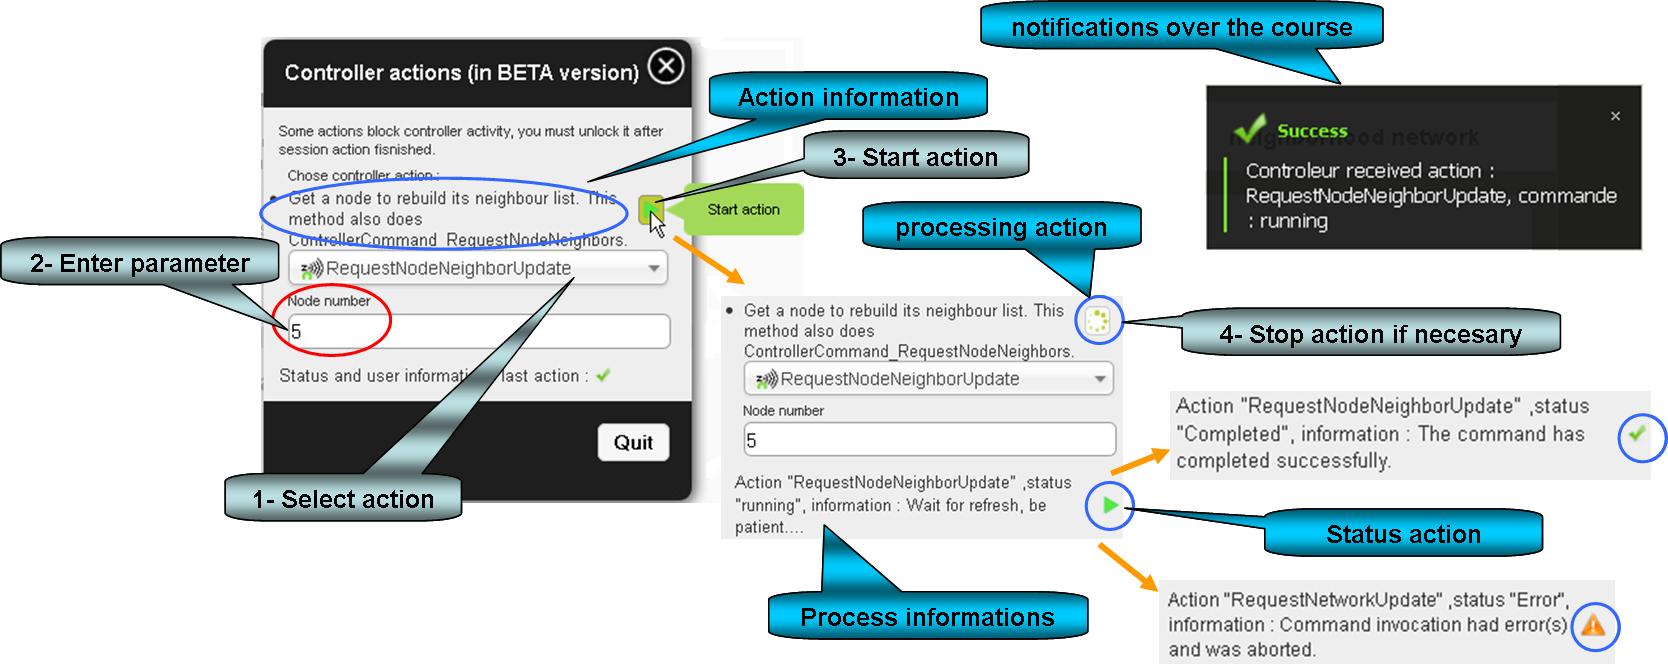
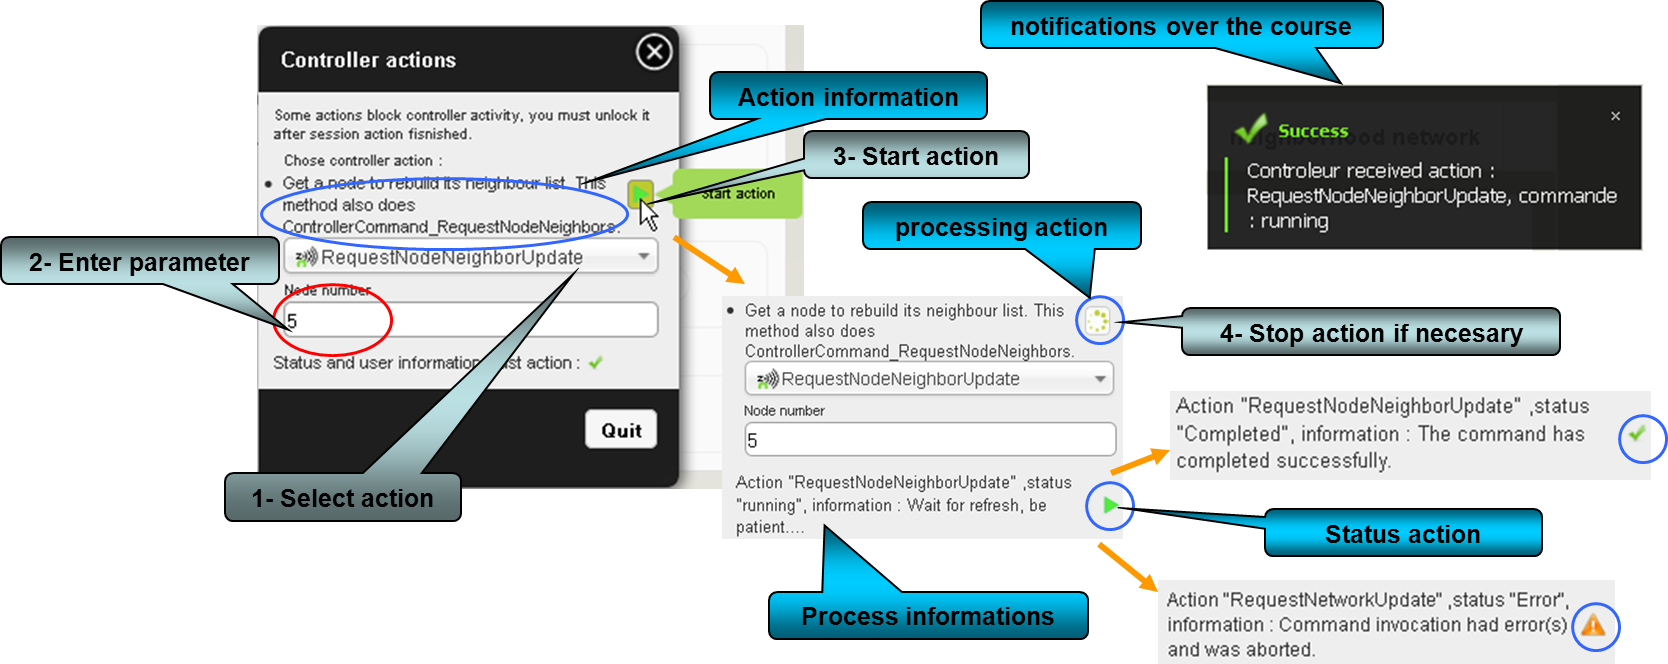
ozwave:Add start/stop driver function.. ., see doc

diff --git a/src/domogik_packages/xpl/lib/ozwave.py b/src/domogik_packages/xpl/lib/ozwave.py
@@ -83,7 +83,7 @@ class OZWavemanager(threading.Thread):
         self._stop = stop
         self._homeId = 0
         self._activeNodeId = None # node actif courant, pour utilisation dans les fonctions du manager
-        self._ctrlnodeId = -1
+        self._ctrlnodeId = None
         self._controller = None
         self._timeStarted = 0
         self._nodes = dict()
@@ -153,10 +153,7 @@ class OZWavemanager(threading.Thread):
         self._log.info(self.pyOZWLibVersion + " -- plugin version :" + OZWPLuginVers)
         print 'user config :',  self._userPath,  " Logging openzwave : ",  opts
         print self.pyOZWLibVersion + " -- plugin version :" + OZWPLuginVers
-   #     thWSUI = threading.Thread(None, self.runServerUI, "serv_ctrl_msg_to_ui", (), {} )
-   #     thWSUI.start()
-   #     from ozwuiserver import BroadcastServer 
-        self.serverUI =  BroadcastServer(self._wsPort,  self.cb_ServerWS,  self._log)
+        self.serverUI =  BroadcastServer(self._wsPort,  self.cb_ServerWS,  self._log) # demarre le websocket server
         self._cb_send_xPL({'type':'xpl-trig', 'schema':'ozwctrl.basic',
                                     'data': {'device': self._getCtrlDeviceName(),  
                                             'type':'plugin-state', 
@@ -183,35 +180,36 @@ class OZWavemanager(threading.Thread):
     def openDevice(self, device):
         """Ajoute un controleur au manager (en developpement 1 seul controleur actuellement)"""
         # TODO: Gérer une liste de controleurs
-        if self._device != None and self._device != device :
+        if self._device != None and self._device != device and self.ready :
             self._log.info("Remove driver from openzwave : %s",  self._device)
             self._manager.removeDriver(self._device)
         self._device = device
         self._log.info("adding driver to openzwave : %s",  self._device)
         self._manager.addDriver(self._device)  # ajout d'un driver dans le manager
         
+    def closeDevice(self, device):
+        """ferme un controleur du manager (en developpement 1 seul controleur actuellement)"""
+        if self._device == device and self._ctrlnodeId :
+            print("Remove driver from openzwave : %s" %self._device)
+            self._log.info("Remove driver from openzwave : %s",  self._device)
+            self._manager.removeDriver(self._device)
+            self._ready = False
+            self._ctrlnodeId = None
+            self.serverUI.broadcastMessage({'node': 'controller', 'type': 'driver-remove', 'usermsg' : 'Driver removed.', 'data': False})
+            self._controller = None
+        else:
+            print('No controller to close')
+            
     def stop(self):
         """ Stop class OZWManager."""
         print("Stopping plugin, Remove driver from openzwave : %s" %self._device)
         self._log.info("Stopping plugin, Remove driver from openzwave : %s",  self._device)
         sleep(1)
-        self._manager.removeDriver(self.device)
+        self._manager.removeDriver(self._device)
+        self._device = None
         self._ready = False
-        self._controller.reportChangeToUI({'node': 'controller', 'type': 'driver-ready', 'usermsg' : 'Plugin stopped and driver removed.', 'data': False})
+        self.serverUI.broadcastMessage({'node': 'controller', 'type': 'driver-remove', 'usermsg' : 'Plugin stopped and driver removed.', 'data': False})
         self.serverUI.close()
-        
-    def runServerUI(self):
-        from ozwuiserver import BroadcastServer
-        try:
-            self.serverUI =  BroadcastServer(5570,  self._log);
-            while not self._stop.isSet():
-                print 'Handle Process msg to UI send to UI'
-                time.sleep(1)  # ne pas saturer le proc
-        except OZwaveManagerException :
-            self._log.error("Error server Msg To UI is stopped")
-            print ("Error server Msg To UI is stopped")
-            return
-        print ("Stop plugin server Msg To UI")
     
     def GetPluginInfo(self):
         retval={"hostport": self._wsPort,  "ctrlready": self._ready}
@@ -363,6 +361,7 @@ class OZWavemanager(threading.Thread):
         self._log.info("Device %s ready. homeId is 0x%0.8x, controller node id is %d, using %s library version %s", self._device,  self._homeId, self._activeNodeId, self._libraryTypeName, self._libraryVersion)
         self._log.info('OpenZWave Initialization Begins.')
         self._log.info('The initialization process could take several minutes.  Please be patient.')
+        self.serverUI.broadcastMessage({'node': 'controller', 'type': 'driver-ready', 'usermsg' : 'Driver is ready.', 'data': True})
         print ('controleur prêt' )
 
     def _handleNodeLinked(self, args):
@@ -482,7 +481,6 @@ class OZWavemanager(threading.Thread):
                         print 'Node %d is affected as primary controller' %(nodeId)
                         self._log.info("Node %d is affected as primary controller)", nodeId)
                         self._controller = retval
-                        self._controller.reportChangeToUI({'node': 'controller', 'type': 'driver-ready', 'usermsg' : 'Driver is ready.', 'data': True})
                         self._controller.reportChangeToUI({'node': 'controller', 'type': 'init-process', 'usermsg' : 'Zwave network initialization process could take several minutes. ' +
                                                     ' Please be patient...', 'data': NodeStatusNW[3]})
                     else :
@@ -510,7 +508,9 @@ class OZWavemanager(threading.Thread):
         node = self._getNode(args['homeId'], args['nodeId'])
         if node :
             self._nodes.pop(node.id)
+      #      node.__del__()
             self._log.info ('Node %d is removed (homeId %.8x)' , args['nodeId'],  args['homeId'])
+            print ('Node %d is removed (homeId %.8x)' , args['nodeId'],  args['homeId'])
         else :
             self._log.debug ("Node %d unknown, isn't removed (homeId %.8x)" , args['nodeId'],  args['homeId'])
 
@@ -578,7 +578,7 @@ class OZWavemanager(threading.Thread):
                 valuebasic = node.getValuesForCommandClass(PyManager.COMMAND_CLASS_DESC[classId] )
                 args2 = dict(args)
                 del args2['event']
-                valuebasic[0].valueData['value'] = args['event']
+                valuebasic[0].valueData['value'] = valuebasic[0].convertInType(args['event'])
                 args2['valueId'] = valuebasic[0].valueData
                 args2['notificationType'] = 'ValueChanged'
                 break
@@ -889,7 +889,19 @@ class OZWavemanager(threading.Thread):
             elif message['request'] == 'GetNodeStats':
                 report = self.getNodeStatistics(message['node'])
                 ackMsg['node'] = message['node']
-                print 'Refresh node stats : ',  report                                
+                print 'Refresh node stats : ',  report
+            elif message['request'] == 'StartCtrl':
+                if not self.ready : 
+                    self.openDevice(self.device)
+                    report = {'error':'',  'running': True}
+                else : report = {'error':'Driver already running',  'running': True}
+                print 'Start Driver : ',  report
+            elif message['request'] == 'StopCtrl':
+                if self.device and self._ctrlnodeId : 
+                    self.closeDevice(self.device)
+                    report = {'error':'',  'running': False}
+                else : report = {'error':'No Driver knows',  'running': False}
+                print 'Stop Driver : ',  report                
             else :
                 report['error'] ='unknown request'
                 print "commande inconnue"

diff --git a/src/domogik_packages/xpl/lib/ozwvalue.py b/src/domogik_packages/xpl/lib/ozwvalue.py
@@ -180,13 +180,34 @@ class ZWaveValueNode:
         return retval
             
     def updateData(self, valueData):
-        """Mise à jour de valueData depuis les arguments du callback """
+        """Mise à jour de valueData depuis les arguments du callback."""
         self._valueData = dict(valueData)
         self._lastUpdate = time.time()
         valueData['homeId'] = int(valueData['homeId']) # Pour etre compatible avec javascript
         valueData['id'] = str(valueData['id']) # Pour etre compatible avec javascript
         self._node.reportToUI({'notifytype': 'value-changed', 'usermsg' :'value has changed', 'data': valueData})
 
+    def convertInType(self,  val):
+        """Convertion de val dans le type de la value."""
+        retval = val
+        valT = type(val)
+        selfT = type(self._valueData['value'])
+        if valT in [int , long, float, complex, bool] :
+            if selfT == bool : retval = bool(val)
+            elif selfT ==int : retval = int(val)
+            elif selfT ==long : retval = long(val)
+            elif selfT ==float : retval = float(val)
+            elif selfT ==complex : retval = complex(val)                    
+        elif  valT ==str :
+            if selfT == bool :
+                Cval = val.capitalize()
+                retval = True if Cval in ['', 'True',  'T',  'Yes',  'Y'] else False
+            elif selfT ==int : retval = int(val)
+            elif selfT ==long : retval = long(val)
+            elif selfT ==float : retval = float(val)
+            elif selfT ==complex : retval = complex(val)
+        return retval
+            
     def _getLabelDomogik(self):
         """ retourne le label OZW formaté pour les listener domogik, en lowcase et espaces remplacés pas '-',
             pour compatibilité adresse web et appel rest."""

diff --git a/src/domogik_packages/xpl/lib/ozwdefs.py b/src/domogik_packages/xpl/lib/ozwdefs.py
@@ -43,7 +43,7 @@ import os.path
 
 FlagDebug = False # pour debug eviter recurtion +2, passé a True pour debug
 
-OZWPLuginVers = "0.2b1"
+OZWPLuginVers = "0.2b2"
 # Déclaration de tuple nomée pour la clarification des infos des noeuds zwave (node)
 # Juste à rajouter ici la déclaration pour future extension.
 NamedPair = namedtuple('NamedPair', ['id', 'name'])
